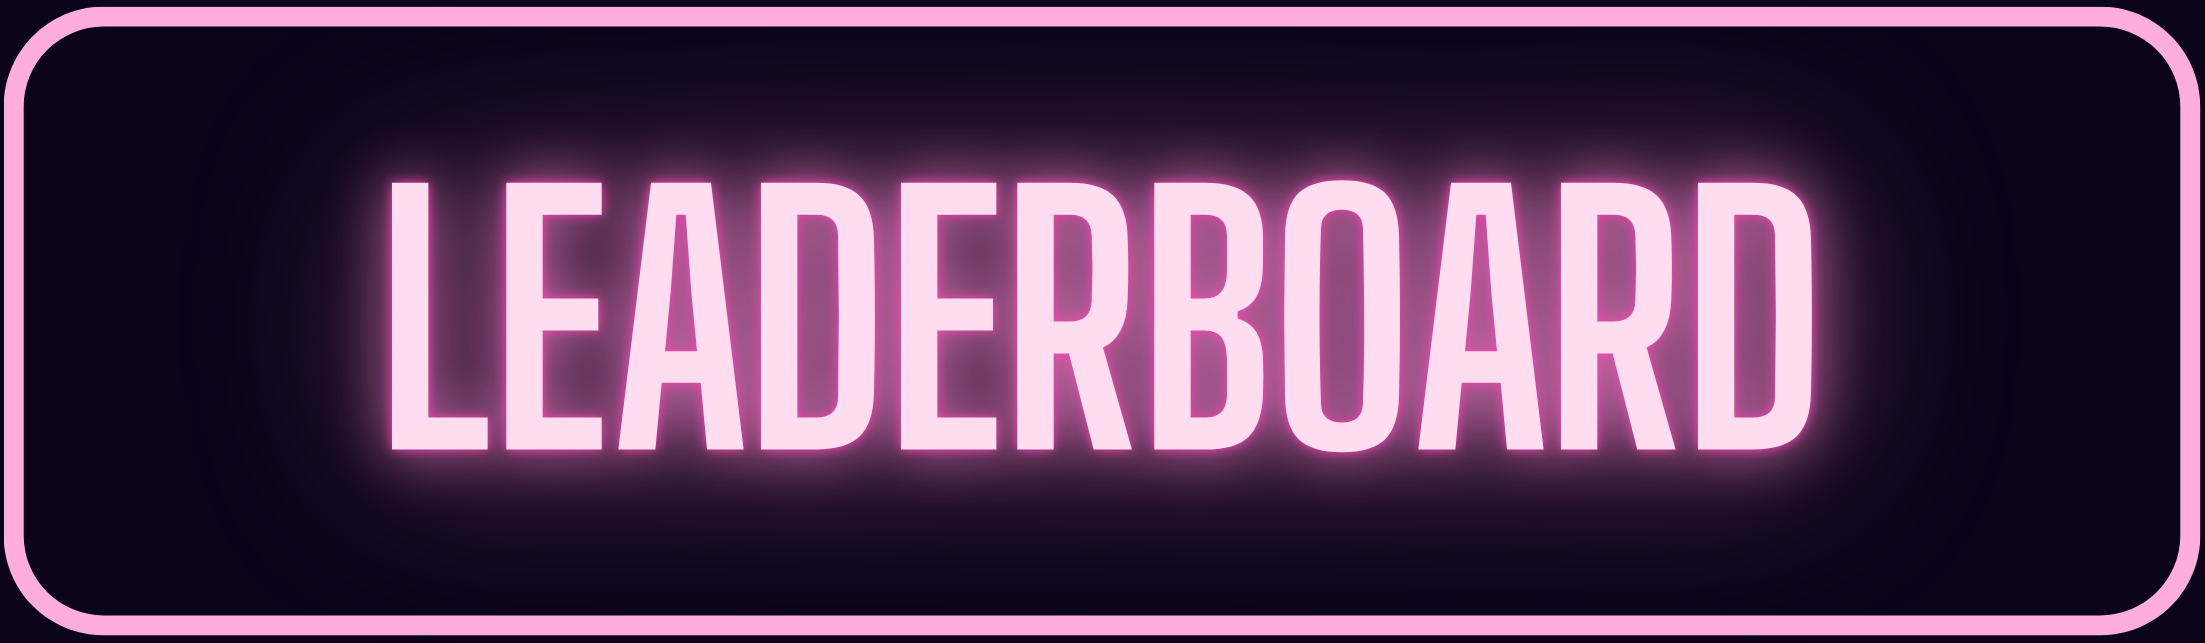
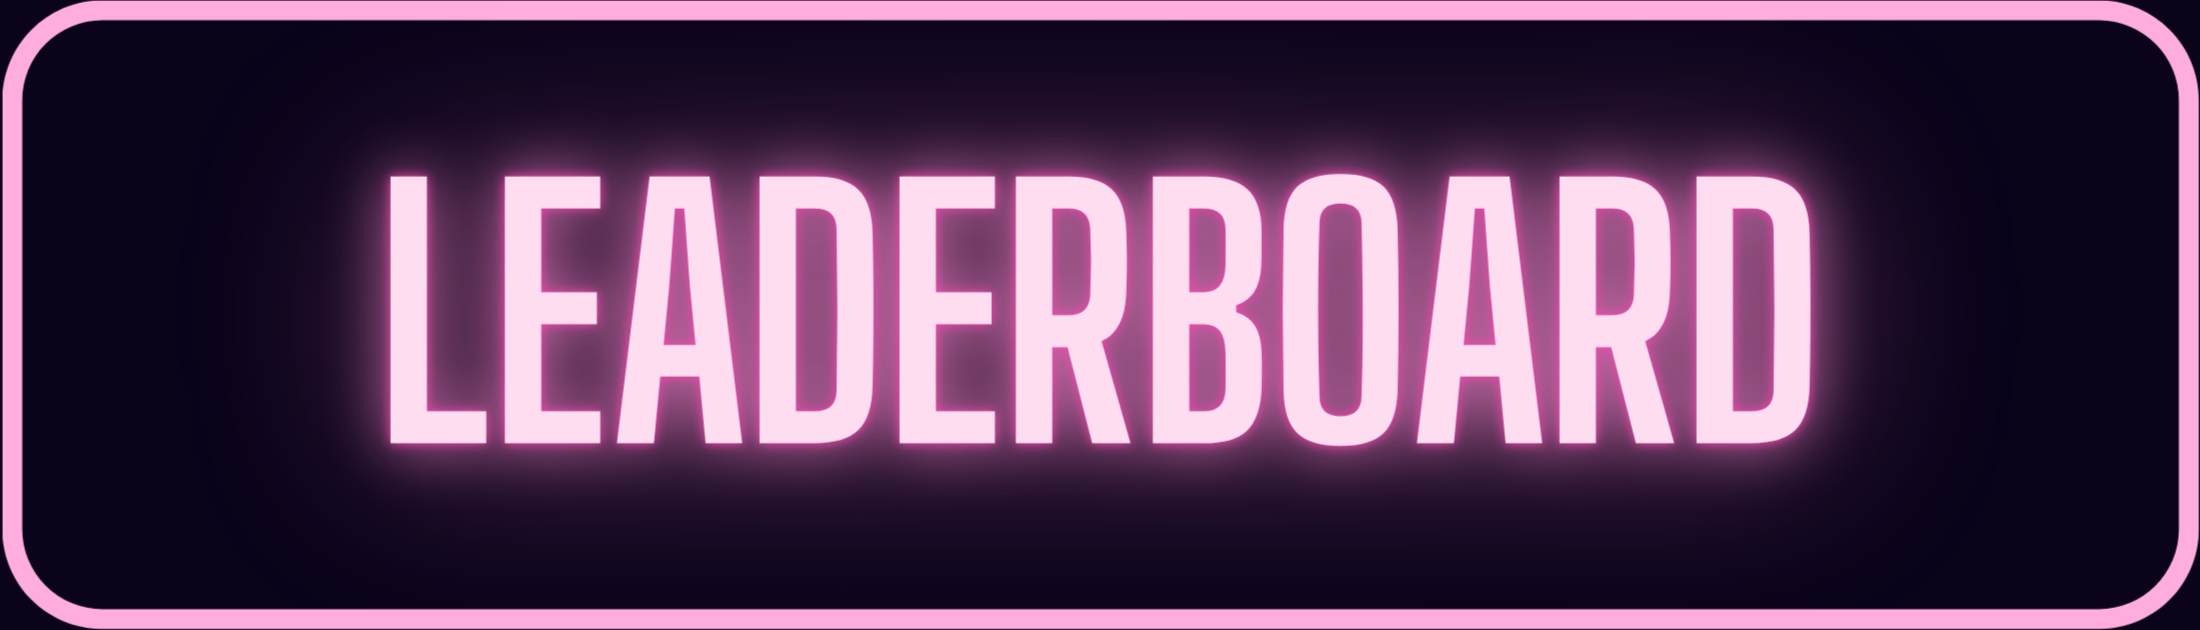
Change hover button images to same resolution size

diff --git a/docs/css/styles.css b/docs/css/styles.css
@@ -104,6 +104,7 @@ body {
 
 .playbtn:hover {
     background-image: url('../img/play-button-hover.png');
+    /* image cropped --- 2200 x 630 */
     background-repeat: no-repeat;
     background-color: transparent;
     background-size: contain;
@@ -130,6 +131,7 @@ body {
 
 .leaderboardbtn:hover {
     background-image: url('../img/leaderboard-button-hover.png');
+    /* image cropped --- 2200 x 630 */
     background-repeat: no-repeat;
     background-color: transparent;
     background-size: contain;
@@ -137,8 +139,7 @@ body {
     border: none;
     width: 450px;
     height: 100px;
-    margin-left: 515px;
-    margin-top: 450px;
+
     z-index: 6;
 }
 
@@ -156,6 +157,7 @@ body {
 
 .menubtn:hover {
     background-image: url('../img/menu-button-hover.png');
+    /* image cropped --- 2200 x 630 */
     background-repeat: no-repeat;
     background-color: transparent;
     background-size: contain;
